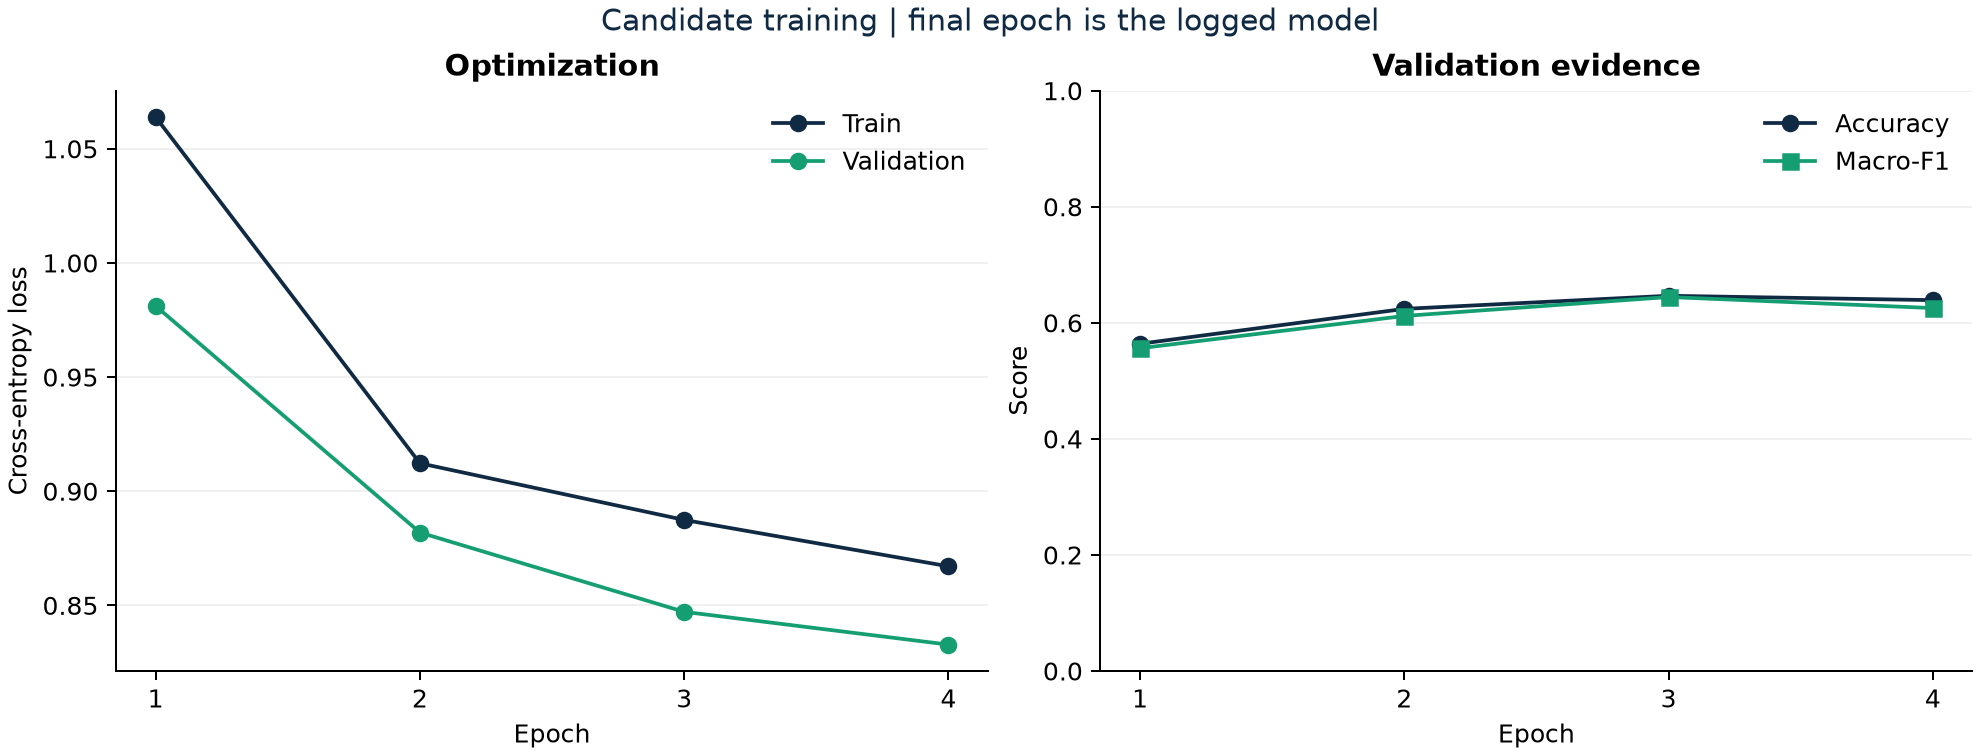
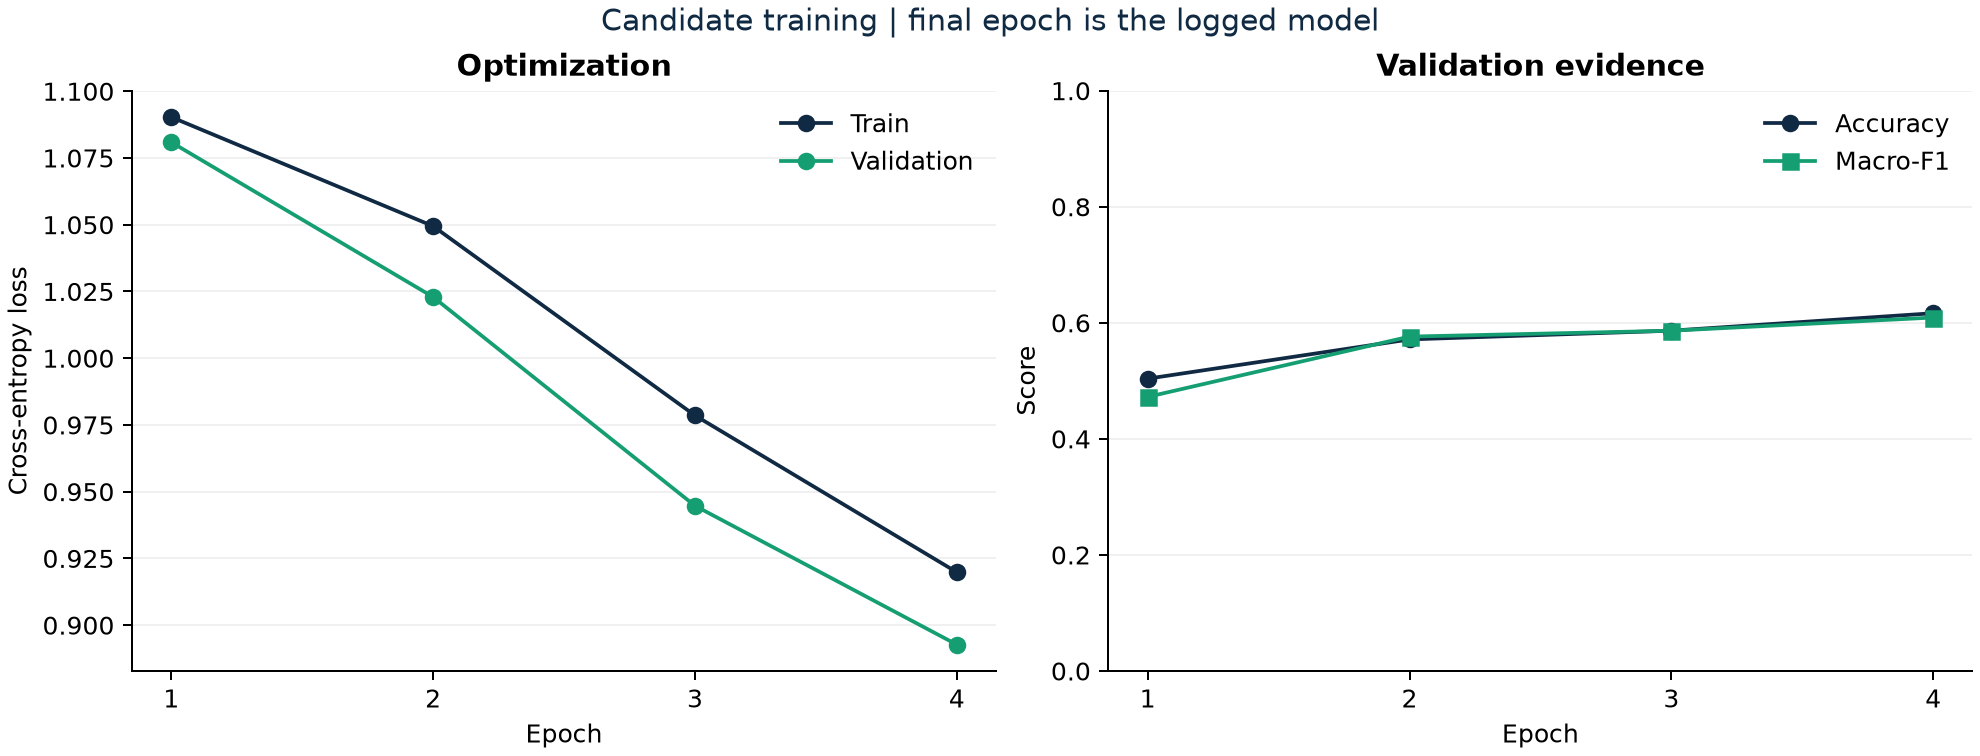
Record Run B and the recomputation checks

diff --git a/LAB_REPORT.md b/LAB_REPORT.md
@@ -39,3 +39,19 @@ Editing src/validate_data.py reruns VALIDATE because the file is one of its depe
 - Tie-break rule: choose the Run with higher validation accuracy if Macro-F1 is equal.
 - Learning-rate prediction: reducing the learning rate from 0.001 to 0.0003 will produce smaller parameter updates and potentially slower, more gradual learning. With only four epochs, it may also result in slower convergence.
 
+
+### Run B – Lower learning rate
+
+- Learning rate: 0.0003
+- Run ID: bf67f7864ffc4b428123a8e15d5699d3
+- Final validation Macro-F1: 0.6091
+- Final validation Accuracy: 0.6165
+- Final validation Loss: 0.8927
+
+Compared with Run A (learning rate 0.001), Run B achieved lower validation Macro-F1 and accuracy, and higher validation loss. Therefore, reducing the learning rate to 0.0003 did not improve performance within four epochs.
+
+#### DVC recomputation – Run B
+
+| Change | VALIDATE | PREPARE | TRAIN | EVALUATE |
+|---|---|---|---|---|
+| Change train.learning_rate from 0.001 to 0.0003 | REUSED | REUSED | RERUN | NOT RUN |
